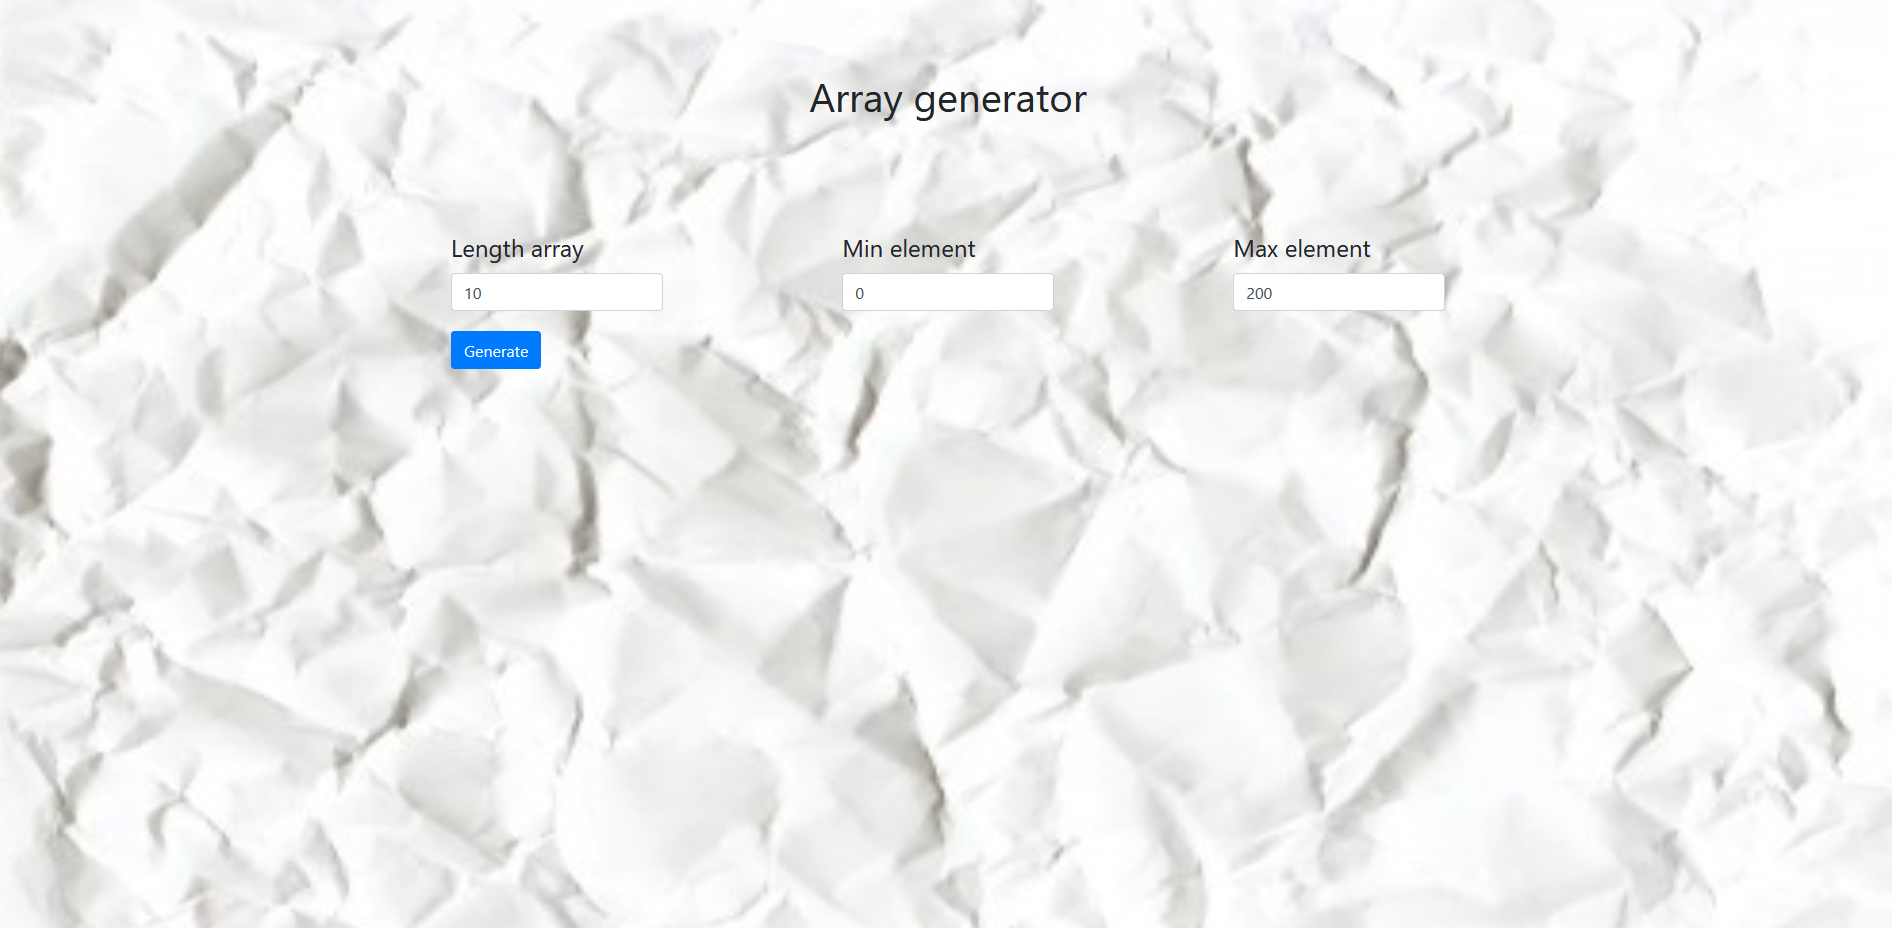
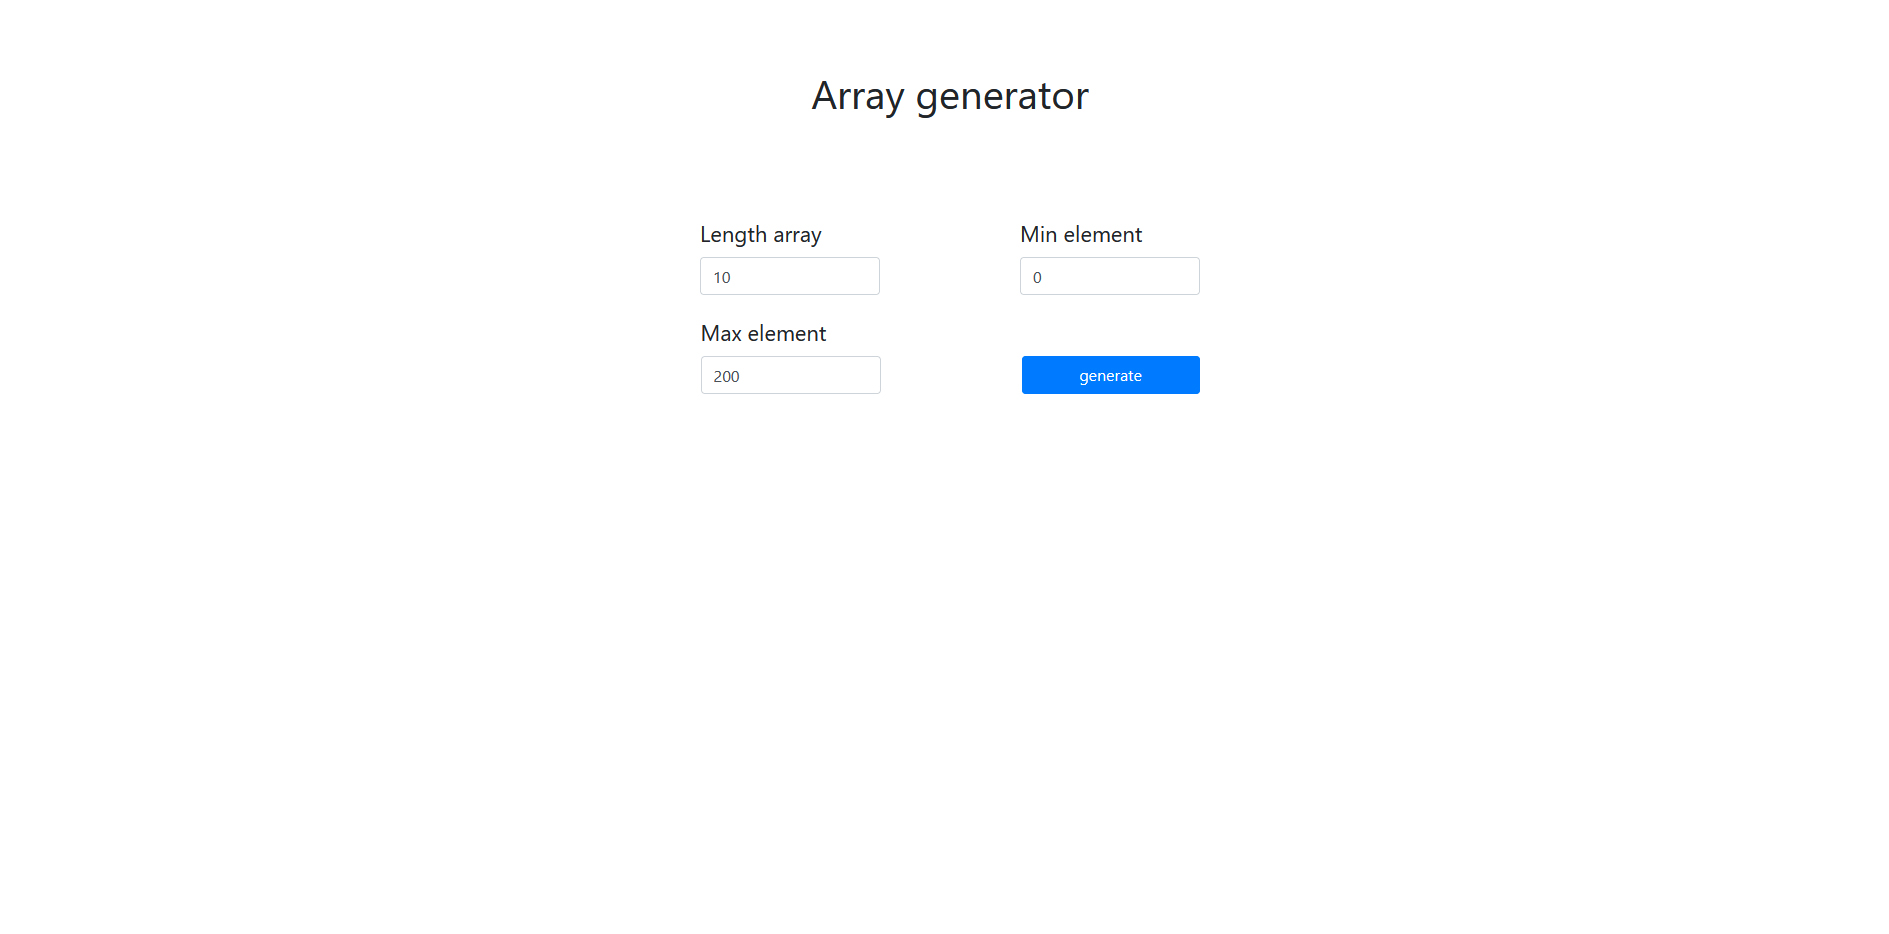
js img

diff --git a/works/array/style.css b/works/array/style.css
@@ -6,12 +6,14 @@
 }
 
 .container {
-    max-width: 640px;
+    max-width: 620px;
     margin: 0 auto;
 }
 
 h1 {
-    padding: 80px;
+    color: #007bff;
+    font-weight: bold;
+    padding: 60px;
     text-align: center;
 }
 
@@ -51,7 +53,7 @@ label {
 
 @media (max-width: 520px) {
     h1 {
-        padding: 50px;
+        padding: 40px;
     }
     .row {
         flex-direction: column;
